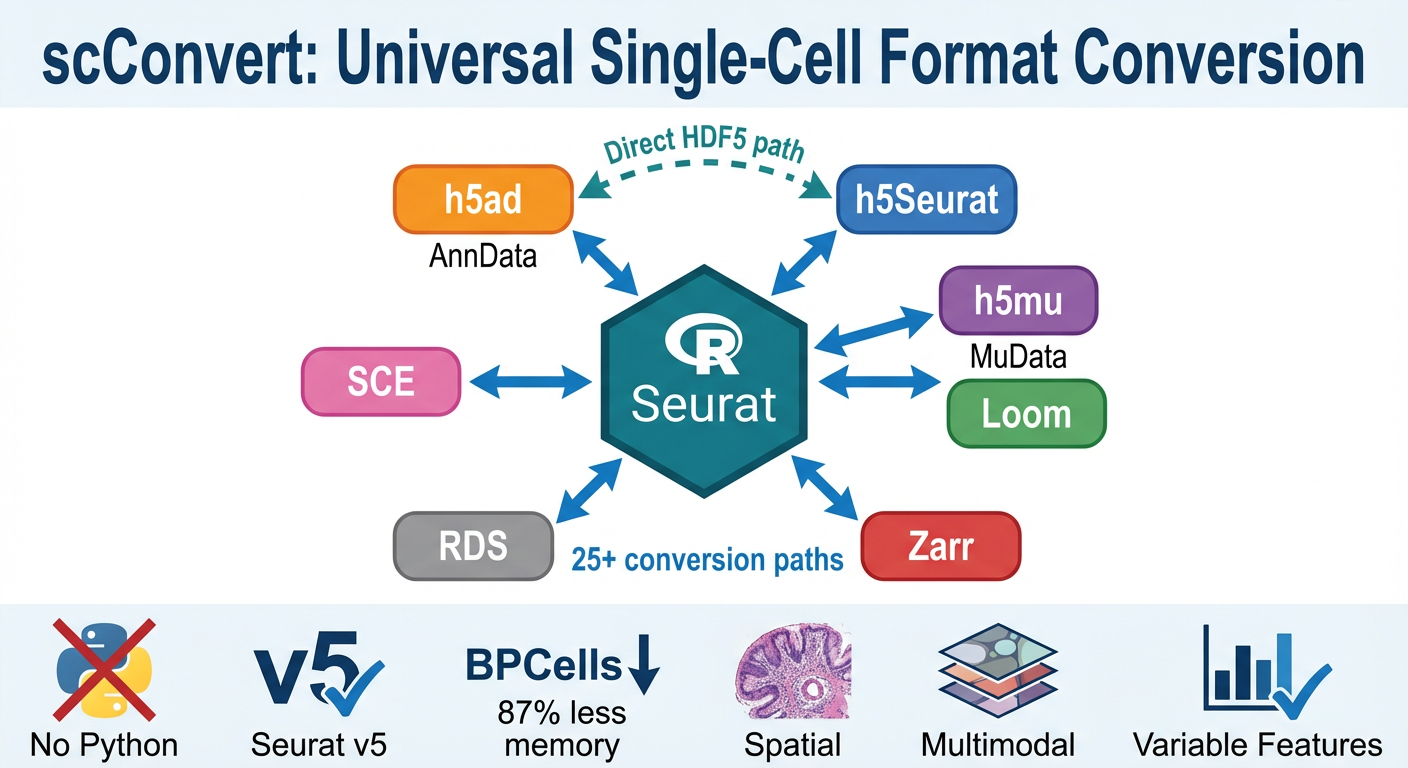
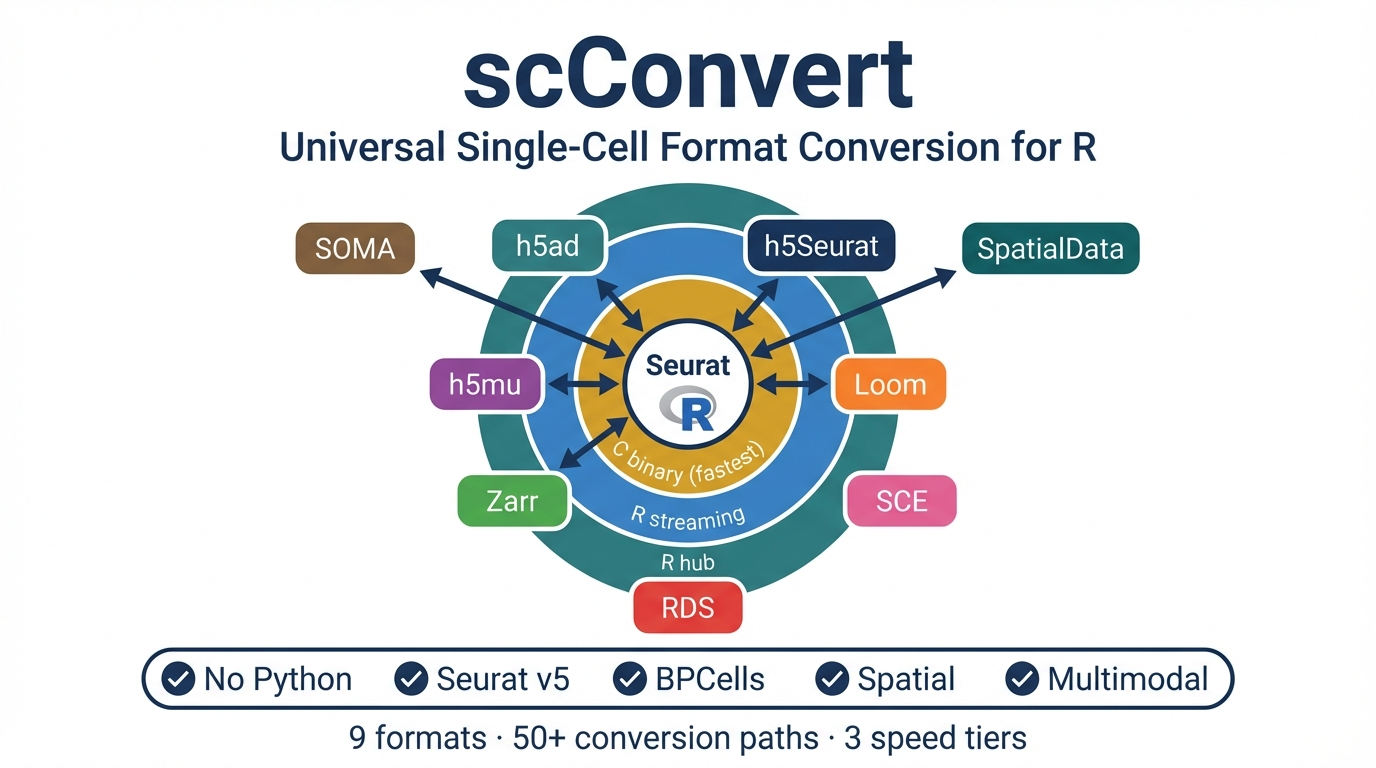
regenerate graphical abstract with AI-generated scientific cover
New cover shows hub architecture with 3 concentric conversion tiers
(C binary, R streaming, R hub), all 9 formats, and feature badges.

diff --git a/docs/articles/convert-zarr.html b/docs/articles/convert-zarr.html
@@ -409,11 +409,11 @@ conversion needed.</p>
 <span id="cb10-6"><a href="#cb10-6" tabindex="-1"></a><span class="co">#&gt; AnnData object with n_obs × n_vars = 2638 × 13714</span></span>
 <span id="cb10-7"><a href="#cb10-7" tabindex="-1"></a><span class="co">#&gt;     obs: 'orig.ident', 'nCount_RNA', 'nFeature_RNA', 'seurat_annotations', 'percent.mt', 'RNA_snn_res.0.5', 'seurat_clusters'</span></span>
 <span id="cb10-8"><a href="#cb10-8" tabindex="-1"></a><span class="co">#&gt;     var: 'vst.mean', 'vst.variance', 'vst.variance.expected', 'vst.variance.standardized', 'vst.variable'</span></span>
-<span id="cb10-9"><a href="#cb10-9" tabindex="-1"></a><span class="co">#&gt;     obsm: 'X_umap', 'X_pca'</span></span>
+<span id="cb10-9"><a href="#cb10-9" tabindex="-1"></a><span class="co">#&gt;     obsm: 'X_pca', 'X_umap'</span></span>
 <span id="cb10-10"><a href="#cb10-10" tabindex="-1"></a><span class="co">#&gt;     layers: 'scaled', 'data'</span></span>
 <span id="cb10-11"><a href="#cb10-11" tabindex="-1"></a><span class="co">#&gt;     obsp: 'connectivities', 'distances'</span></span>
 <span id="cb10-12"><a href="#cb10-12" tabindex="-1"></a><span class="bu">print</span>(<span class="ss">f"Embeddings: </span><span class="sc">{</span><span class="bu">list</span>(adata.obsm.keys())<span class="sc">}</span><span class="ss">"</span>)</span>
-<span id="cb10-13"><a href="#cb10-13" tabindex="-1"></a><span class="co">#&gt; Embeddings: ['X_umap', 'X_pca']</span></span>
+<span id="cb10-13"><a href="#cb10-13" tabindex="-1"></a><span class="co">#&gt; Embeddings: ['X_pca', 'X_umap']</span></span>
 <span id="cb10-14"><a href="#cb10-14" tabindex="-1"></a><span class="bu">print</span>(<span class="ss">f"Graphs: </span><span class="sc">{</span><span class="bu">list</span>(adata.obsp.keys())<span class="sc">}</span><span class="ss">"</span>)</span>
 <span id="cb10-15"><a href="#cb10-15" tabindex="-1"></a><span class="co">#&gt; Graphs: ['connectivities', 'distances']</span></span></code></pre></div>
 </div>

diff --git a/docs/articles/spatial-visium.html b/docs/articles/spatial-visium.html
@@ -252,7 +252,7 @@ the box:</p>
 <span id="cb7-6"><a href="#cb7-6" tabindex="-1"></a>fig, ax <span class="op">=</span> plt.subplots(<span class="dv">1</span>, <span class="dv">1</span>, figsize<span class="op">=</span>(<span class="dv">10</span>, <span class="dv">8</span>))</span>
 <span id="cb7-7"><a href="#cb7-7" tabindex="-1"></a>sc_plot <span class="op">=</span> ax.scatter(coords[:, <span class="dv">0</span>], <span class="op">-</span>coords[:, <span class="dv">1</span>], c<span class="op">=</span>expr, s<span class="op">=</span><span class="dv">8</span>, cmap<span class="op">=</span><span class="st">"viridis"</span>, alpha<span class="op">=</span><span class="fl">0.8</span>)</span>
 <span id="cb7-8"><a href="#cb7-8" tabindex="-1"></a>plt.colorbar(sc_plot, ax<span class="op">=</span>ax, label<span class="op">=</span><span class="st">"Hpca expression"</span>)</span>
-<span id="cb7-9"><a href="#cb7-9" tabindex="-1"></a><span class="co">#&gt; &lt;matplotlib.colorbar.Colorbar object at 0x3aeee2600&gt;</span></span>
+<span id="cb7-9"><a href="#cb7-9" tabindex="-1"></a><span class="co">#&gt; &lt;matplotlib.colorbar.Colorbar object at 0x3a7da65a0&gt;</span></span>
 <span id="cb7-10"><a href="#cb7-10" tabindex="-1"></a>ax.set_title(<span class="st">"Hpca — scanpy/matplotlib (from scConvert h5ad)"</span>)</span>
 <span id="cb7-11"><a href="#cb7-11" tabindex="-1"></a>ax.set_aspect(<span class="st">"equal"</span>)</span>
 <span id="cb7-12"><a href="#cb7-12" tabindex="-1"></a>ax.axis(<span class="st">"off"</span>)</span>

diff --git a/docs/articles/convert-zarr.md b/docs/articles/convert-zarr.md
@@ -249,11 +249,11 @@ print(adata)
 #> AnnData object with n_obs × n_vars = 2638 × 13714
 #>     obs: 'orig.ident', 'nCount_RNA', 'nFeature_RNA', 'seurat_annotations', 'percent.mt', 'RNA_snn_res.0.5', 'seurat_clusters'
 #>     var: 'vst.mean', 'vst.variance', 'vst.variance.expected', 'vst.variance.standardized', 'vst.variable'
-#>     obsm: 'X_umap', 'X_pca'
+#>     obsm: 'X_pca', 'X_umap'
 #>     layers: 'scaled', 'data'
 #>     obsp: 'connectivities', 'distances'
 print(f"Embeddings: {list(adata.obsm.keys())}")
-#> Embeddings: ['X_umap', 'X_pca']
+#> Embeddings: ['X_pca', 'X_umap']
 print(f"Graphs: {list(adata.obsp.keys())}")
 #> Graphs: ['connectivities', 'distances']
 ```

diff --git a/docs/articles/spatial-visium.md b/docs/articles/spatial-visium.md
@@ -153,7 +153,7 @@ expr = adata[:, "Hpca"].X.toarray().flatten() if hasattr(adata[:, "Hpca"].X, 'to
 fig, ax = plt.subplots(1, 1, figsize=(10, 8))
 sc_plot = ax.scatter(coords[:, 0], -coords[:, 1], c=expr, s=8, cmap="viridis", alpha=0.8)
 plt.colorbar(sc_plot, ax=ax, label="Hpca expression")
-#> <matplotlib.colorbar.Colorbar object at 0x3aeee2600>
+#> <matplotlib.colorbar.Colorbar object at 0x3a7da65a0>
 ax.set_title("Hpca — scanpy/matplotlib (from scConvert h5ad)")
 ax.set_aspect("equal")
 ax.axis("off")
